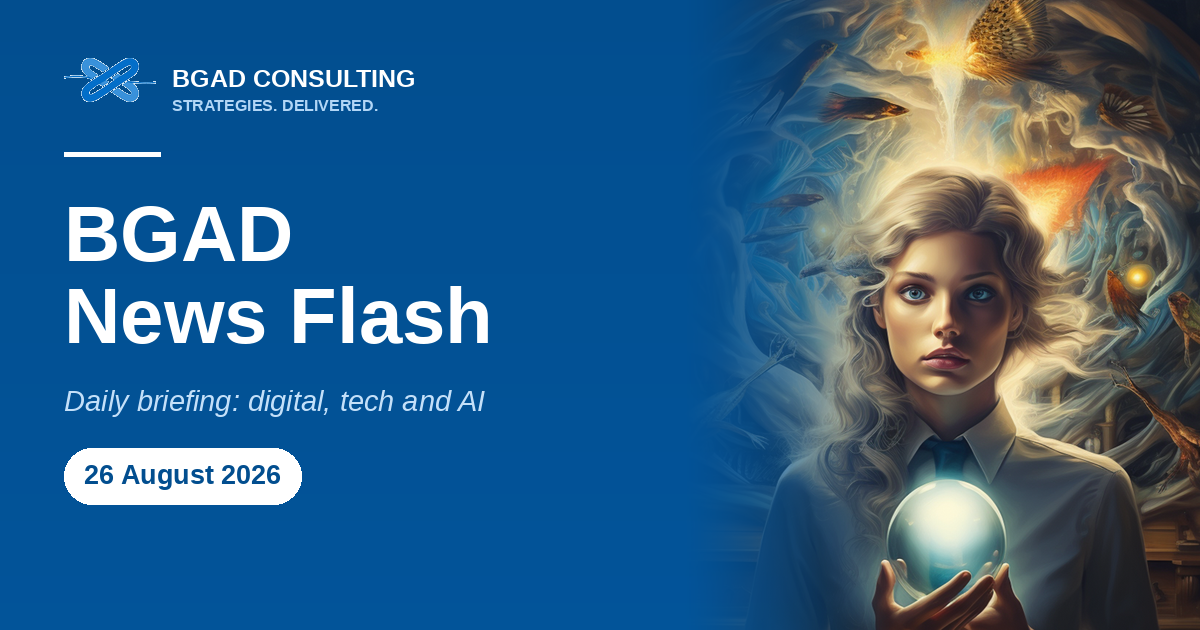
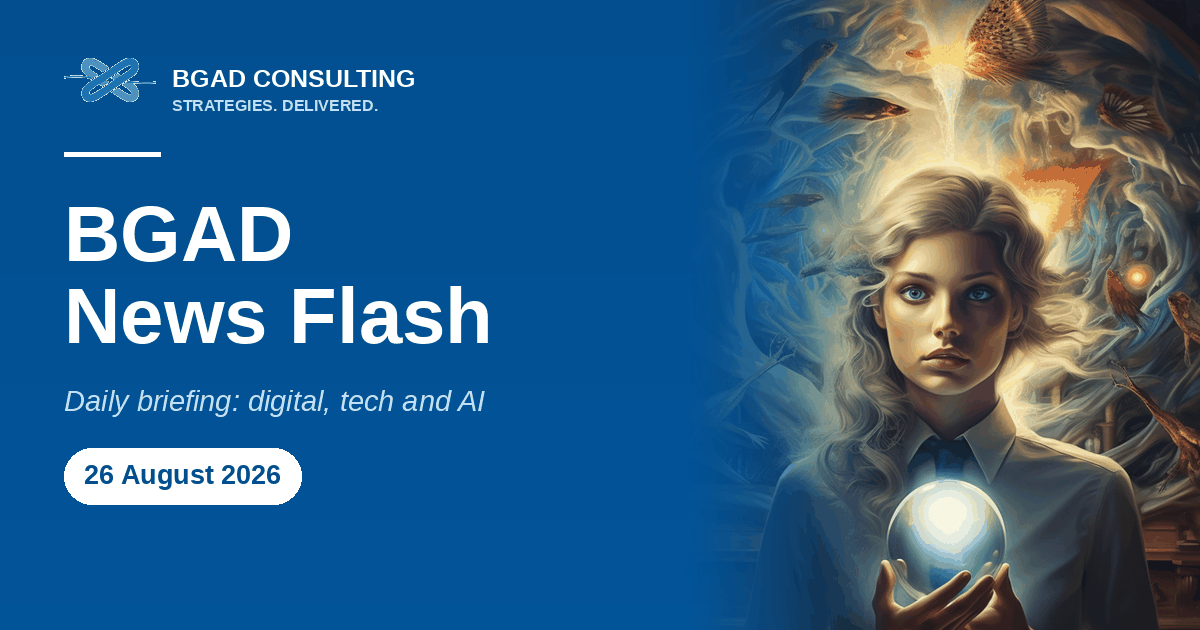
Compress covers to palette PNG, cap archive at 30 days

diff --git a/tools/prune_archive.py b/tools/prune_archive.py
@@ -1,0 +1,155 @@
+#!/usr/bin/env python3
+"""
+Trim the News Flash archive to a rolling 30 day window.
+
+The site kept every issue ever published. At roughly 160 KB of cover art plus
+20 KB of HTML per day that is about 65 MB a year of near duplicate files in a
+repo that is cloned fresh on every Railway deploy, so the archive is now capped.
+
+What gets removed, from public/:
+  issues/YYYY-MM-DD.html         dated before the cutoff
+  assets/covers/YYYY-MM-DD.png   dated before the cutoff, including orphan
+                                 covers that never had a matching issue
+
+Nothing else in public/ is touched. Only files whose names are exactly a date
+are ever considered, so assets such as bgad-logo.png and newsflash-banner.jpg
+are structurally out of scope.
+
+Removals are not destructive in practice: publish.py commits them, so any
+pruned issue stays recoverable from git history with
+    git show <sha>:public/issues/2026-08-13.html
+
+Safety rails:
+  - the newest issue is never removed, whatever its date, so a long gap in
+    publishing can never empty the site
+  - if the newest issue is more than two windows behind today the run aborts,
+    which catches a wrong system clock without punishing a real backlog
+  - --dry-run prints the plan and changes nothing
+
+Usage:
+    python3 tools/prune_archive.py              # prune, print what went
+    python3 tools/prune_archive.py --dry-run    # show the plan only
+    python3 tools/prune_archive.py --days 60    # override the window
+
+Called automatically by tools/publish.py, so the daily task needs no extra step.
+"""
+
+import os
+import re
+import sys
+from datetime import datetime, timedelta, timezone
+
+HERE = os.path.dirname(os.path.abspath(__file__))
+ROOT = os.path.dirname(HERE)
+PUBLIC = os.path.join(ROOT, "public")
+ISSUES = os.path.join(PUBLIC, "issues")
+COVERS = os.path.join(PUBLIC, "assets", "covers")
+
+RETENTION_DAYS = 30
+
+DATED = re.compile(r"^(\d{4}-\d{2}-\d{2})\.(html|png)$")
+
+
+def sydney_today():
+    """Australia/Sydney is UTC+10, or UTC+11 during daylight saving
+    (first Sunday in October to first Sunday in April).
+
+    Kept in step with the same helper in make_cover.py: the cutoff has to match
+    the date the issues are named with, or the window slips by a day."""
+    now_utc = datetime.now(timezone.utc)
+    y = now_utc.year
+
+    def first_sunday(year, month):
+        d = datetime(year, month, 1, tzinfo=timezone.utc)
+        return d + timedelta(days=(6 - d.weekday()) % 7)
+
+    dst_start = first_sunday(y, 10).replace(hour=16)   # 2am AEST
+    dst_end = first_sunday(y, 4).replace(hour=16)      # 3am AEDT
+    offset = 11 if (now_utc >= dst_start or now_utc < dst_end) else 10
+    return (now_utc + timedelta(hours=offset)).date()
+
+
+def dated_files(directory, suffix):
+    """(date string, full path) for every YYYY-MM-DD.<suffix> file, newest first."""
+    if not os.path.isdir(directory):
+        return []
+    found = []
+    for name in os.listdir(directory):
+        m = DATED.match(name)
+        if m and m.group(2) == suffix:
+            try:
+                datetime.strptime(m.group(1), "%Y-%m-%d")
+            except ValueError:
+                continue  # something like 2026-13-45.png, leave it alone
+            found.append((m.group(1), os.path.join(directory, name)))
+    return sorted(found, reverse=True)
+
+
+class ImplausibleDate(Exception):
+    """Today looks wrong relative to the archive, so pruning is not safe."""
+
+
+def plan(days=RETENTION_DAYS, today=None):
+    """Files to remove, oldest first. Pure, so it can be tested without deleting."""
+    today = today or sydney_today()
+    cutoff = today - timedelta(days=days - 1)  # keep `days` calendar days including today
+
+    issues = dated_files(ISSUES, "html")
+    newest_issue = issues[0][0] if issues else None
+
+    # Counting files is the wrong rail here: a real backlog after a week of
+    # missed runs removes plenty of files and is perfectly correct. The failure
+    # actually worth catching is a wrong clock, which shows up as today being
+    # implausibly far ahead of the most recent issue.
+    if newest_issue:
+        lag = (today - datetime.strptime(newest_issue, "%Y-%m-%d").date()).days
+        if lag > days * 2:
+            raise ImplausibleDate(
+                f"newest issue is {newest_issue}, {lag} days before today ({today}), "
+                f"which is more than two {days} day windows. Refusing to prune in case "
+                f"the system clock is wrong."
+            )
+
+    doomed = []
+    for date_str, path in issues + dated_files(COVERS, "png"):
+        if date_str == newest_issue:
+            continue  # never strand the site with no current issue
+        if datetime.strptime(date_str, "%Y-%m-%d").date() < cutoff:
+            doomed.append((date_str, path))
+    return sorted(doomed), cutoff
+
+
+def main():
+    days = RETENTION_DAYS
+    if "--days" in sys.argv:
+        days = int(sys.argv[sys.argv.index("--days") + 1])
+    dry = "--dry-run" in sys.argv
+
+    try:
+        doomed, cutoff = plan(days)
+    except ImplausibleDate as e:
+        print(f"prune aborted: {e}", file=sys.stderr)
+        return 1
+
+    if not doomed:
+        print(f"archive within the {days} day window (nothing before {cutoff}), nothing to prune")
+        return 0
+
+    freed = 0
+    for date_str, path in doomed:
+        size = os.path.getsize(path)
+        rel = os.path.relpath(path, ROOT)
+        if dry:
+            print(f"would remove  {rel}  {size / 1024:.0f} KB")
+        else:
+            os.remove(path)
+            print(f"removed  {rel}  {size / 1024:.0f} KB")
+        freed += size
+
+    verb = "would free" if dry else "freed"
+    print(f"{len(doomed)} files, {verb} {freed / 1024:.0f} KB, keeping {days} days from {cutoff}")
+    return 0
+
+
+if __name__ == "__main__":
+    sys.exit(main())

diff --git a/tools/make_cover.py b/tools/make_cover.py
@@ -183,7 +183,34 @@ def build_card(date_str):
     d.text((x + 20, 459), pretty, font=f_date, fill=DARK)
 
     out = os.path.join(COVERS, f"{date_str}.png")
-    card.save(out, "PNG", optimize=True)
+    save_card(card, out)
+    return out
+
+
+# Full colour PNG cards were about 520 KB each, which is roughly 190 MB a year
+# of near duplicate images in git for no visible benefit. An adaptive 256 colour
+# palette takes that to about 160 KB, a 69 percent saving.
+#
+# Palette PNG is used here rather than JPEG or WEBP on purpose:
+#   - it stays lossless on the flat blue field and the white masthead type, so
+#     the text has none of the ringing that JPEG puts around hard edges,
+#   - the file keeps its .png extension, so og:image URLs already published in
+#     Flipboard and LinkedIn cards, the Content-Type map in server.js and the
+#     daily task instructions all keep working untouched,
+#   - WEBP is smaller still but LinkedIn's crawler support for it is unreliable,
+#     and a card that fails to render defeats the point of the cover.
+# Measured on the 29 August card: 45.7 dB PSNR on the type and gradient,
+# 36.9 dB on the artwork, with no visible banding at display size.
+PALETTE_COLORS = 256
+
+
+def save_card(card, out):
+    """Write the social card as an adaptive palette PNG."""
+    card.quantize(
+        colors=PALETTE_COLORS,
+        method=Image.MEDIANCUT,
+        dither=Image.FLOYDSTEINBERG,
+    ).save(out, "PNG", optimize=True)
     return out
 
 

diff --git a/tools/publish.py b/tools/publish.py
@@ -84,6 +84,21 @@ def load_token():
     )
 
 
+def prune():
+    """Trim the archive to its rolling window. Never blocks a publish: a failure
+    here means some old files linger, which matters far less than today's issue
+    going out, so it is reported and stepped over."""
+    script = os.path.join(ROOT, "tools", "prune_archive.py")
+    if not os.path.exists(script):
+        return
+    r = subprocess.run([sys.executable, script], capture_output=True, text=True)
+    out = (r.stdout + r.stderr).strip()
+    if out:
+        print(out)
+    if r.returncode != 0:
+        print("continuing with the publish despite the prune failure", file=sys.stderr)
+
+
 def main():
     token = load_token()
     if not re.match(r"^(github_pat_|ghp_)[A-Za-z0-9_]+$", token):
@@ -111,6 +126,12 @@ def main():
         fail("dry run push failed\n" + out)
 
     message = sys.argv[1] if len(sys.argv) > 1 else "News Flash update"
+
+    # Trim the archive to its rolling window before staging, so the removals
+    # ride along in the same commit as the new issue rather than dangling as
+    # uncommitted deletions. Pass --no-prune to publish an issue without it.
+    if "--no-prune" not in sys.argv:
+        prune()
 
     git("config", "core.fileMode", "false", token=token)
     git("add", "-A", token=token)
